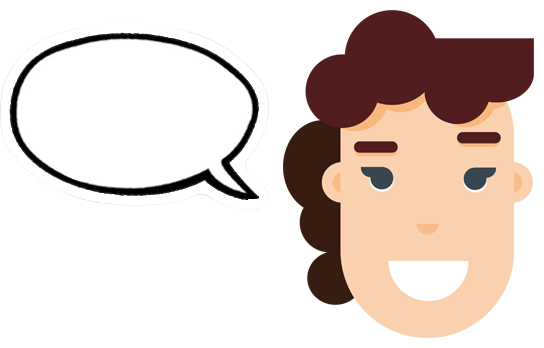
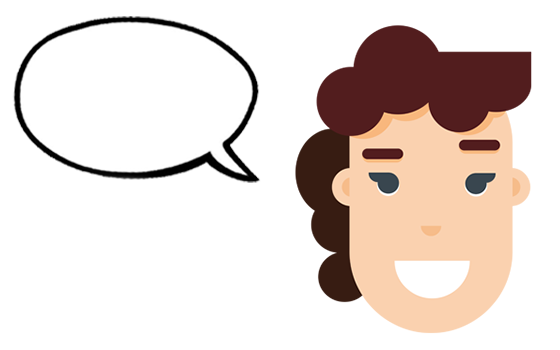
Fixes long message lengths in the :{name} commands (#243)

diff --git a/cdbot/cogs/fun.py b/cdbot/cogs/fun.py
@@ -386,19 +386,24 @@ class Fun(Cog):
         """
         Creates an image of a given person with the specified text.
         """
-        lines = textwrap.wrap(text, 15)
-        drawing_text = "\n".join(lines)
+        if len(text) > 100:
+            return await ctx.send(":no_entry_sign: Your text must be shorter than 100 characters.")
+        drawing_text = textwrap.fill(text, 20)
+        font = ImageFont.truetype("cdbot/resources/Dosis-SemiBold.ttf", 150)
+
+        text_layer = Image.new("RGBA", (1920, 1080), (0, 0, 0, 0))
+        text_layer_drawing = ImageDraw.Draw(text_layer)
+        text_layer_drawing.text((0, 0), drawing_text, fill=(0, 0, 0), align="center", font=font)
+
+        cropped_text_layer = text_layer.crop(text_layer.getbbox())
+        cropped_text_layer.thumbnail((170, 110))
 
         image = Image.open(f"cdbot/resources/{person}SaysBlank.png")
-        draw = ImageDraw.Draw(image)
-        font = ImageFont.truetype("cdbot/resources/Dosis-SemiBold.ttf", 34)
 
-        possible_size = draw.multiline_textsize(drawing_text, font=font)
-        x = image.width // 5 + 20 - possible_size[0] // 2
-        y = image.height // 5 + 35 / 2 - 35 * len(lines) // 2
+        x = int((image.width / 5 + 20) - (cropped_text_layer.width / 2))
+        y = int((image.height / 5 + 50 / 2) - (cropped_text_layer.height / 2))
 
-        draw.multiline_text((x, y), drawing_text, fill=(0, 0, 0), align="center", font=font)
-
+        image.paste(cropped_text_layer, (x, y), cropped_text_layer)
         image_bytes = BytesIO()
         image.save(image_bytes, format="PNG")
         image_bytes.seek(0)
